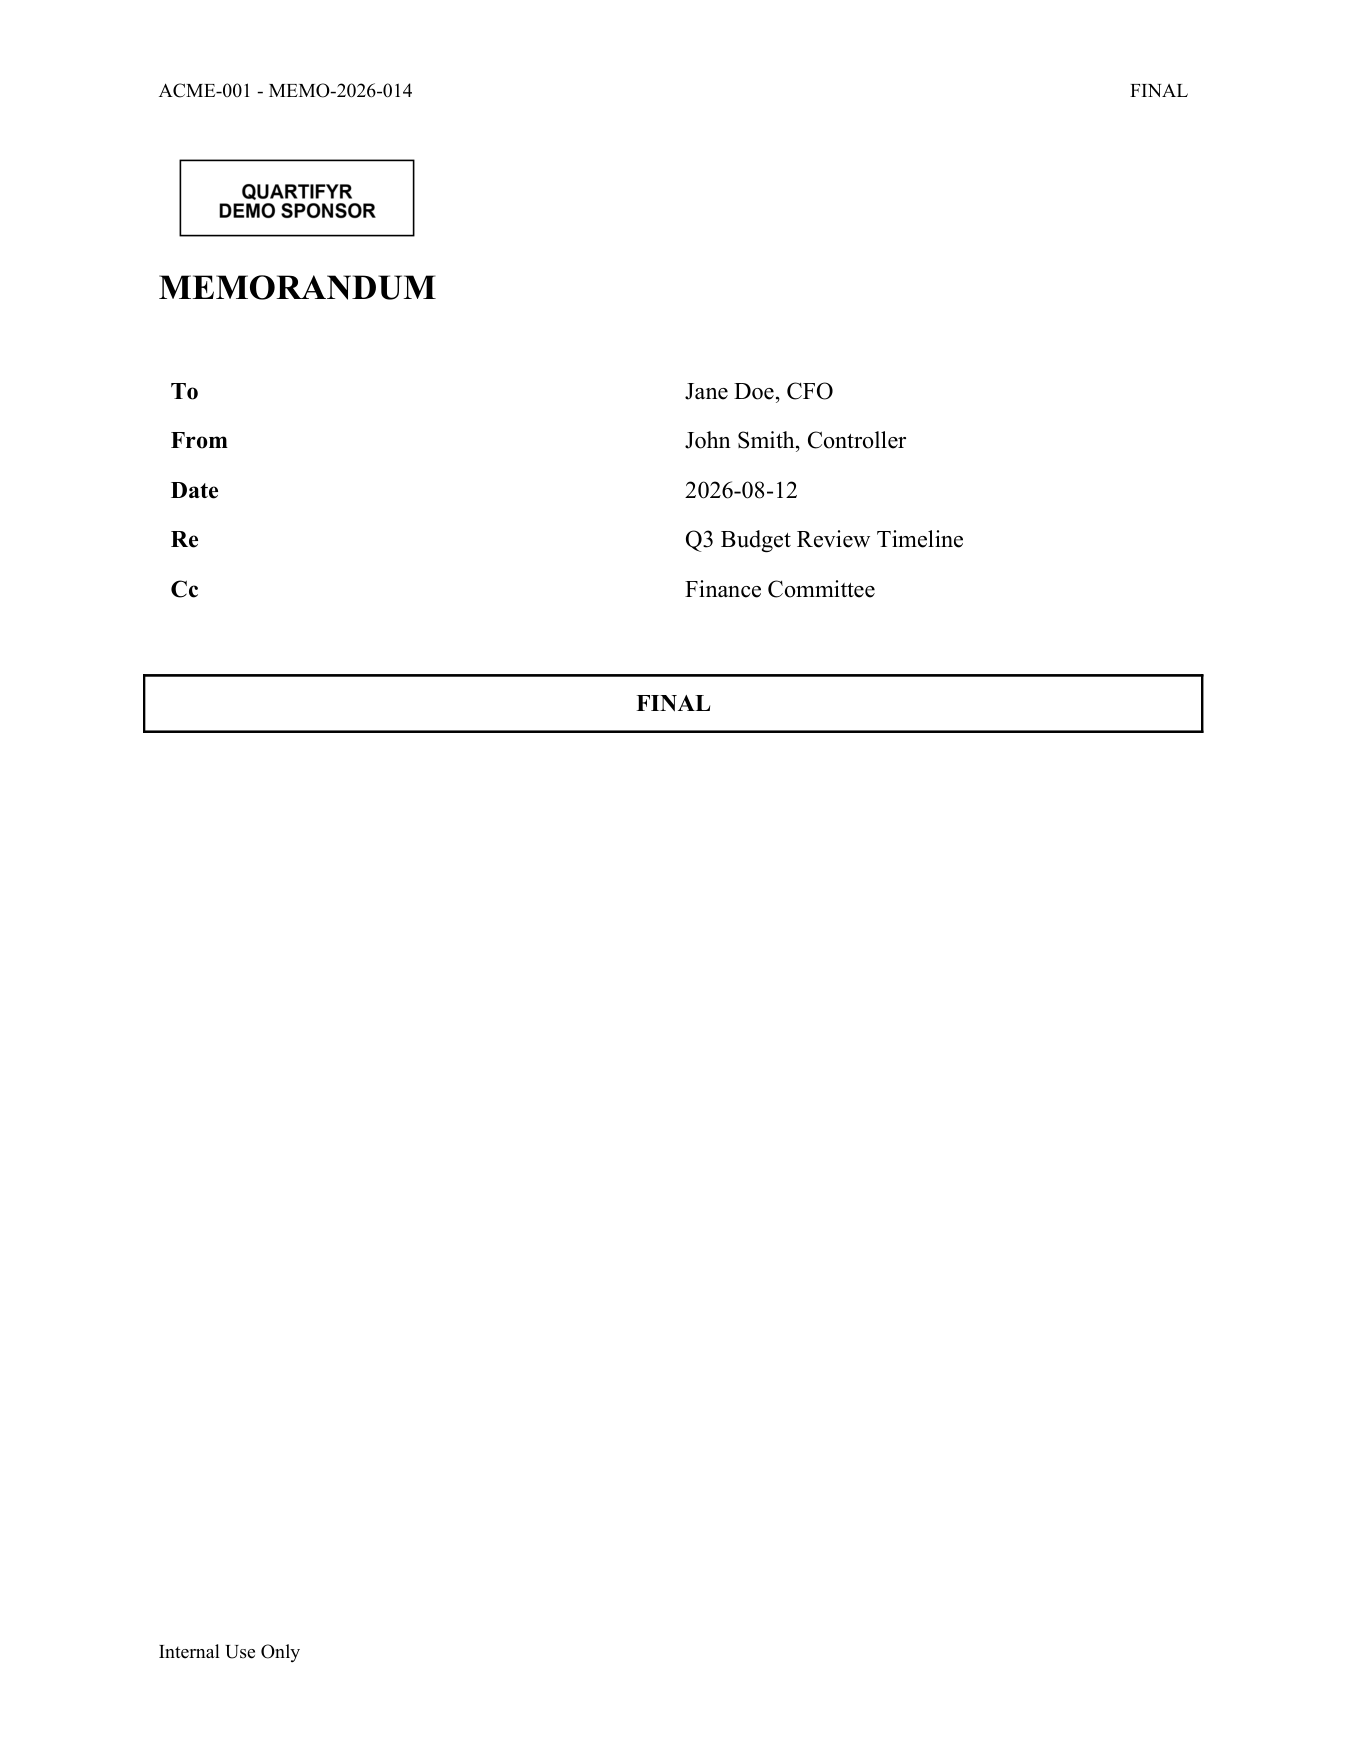
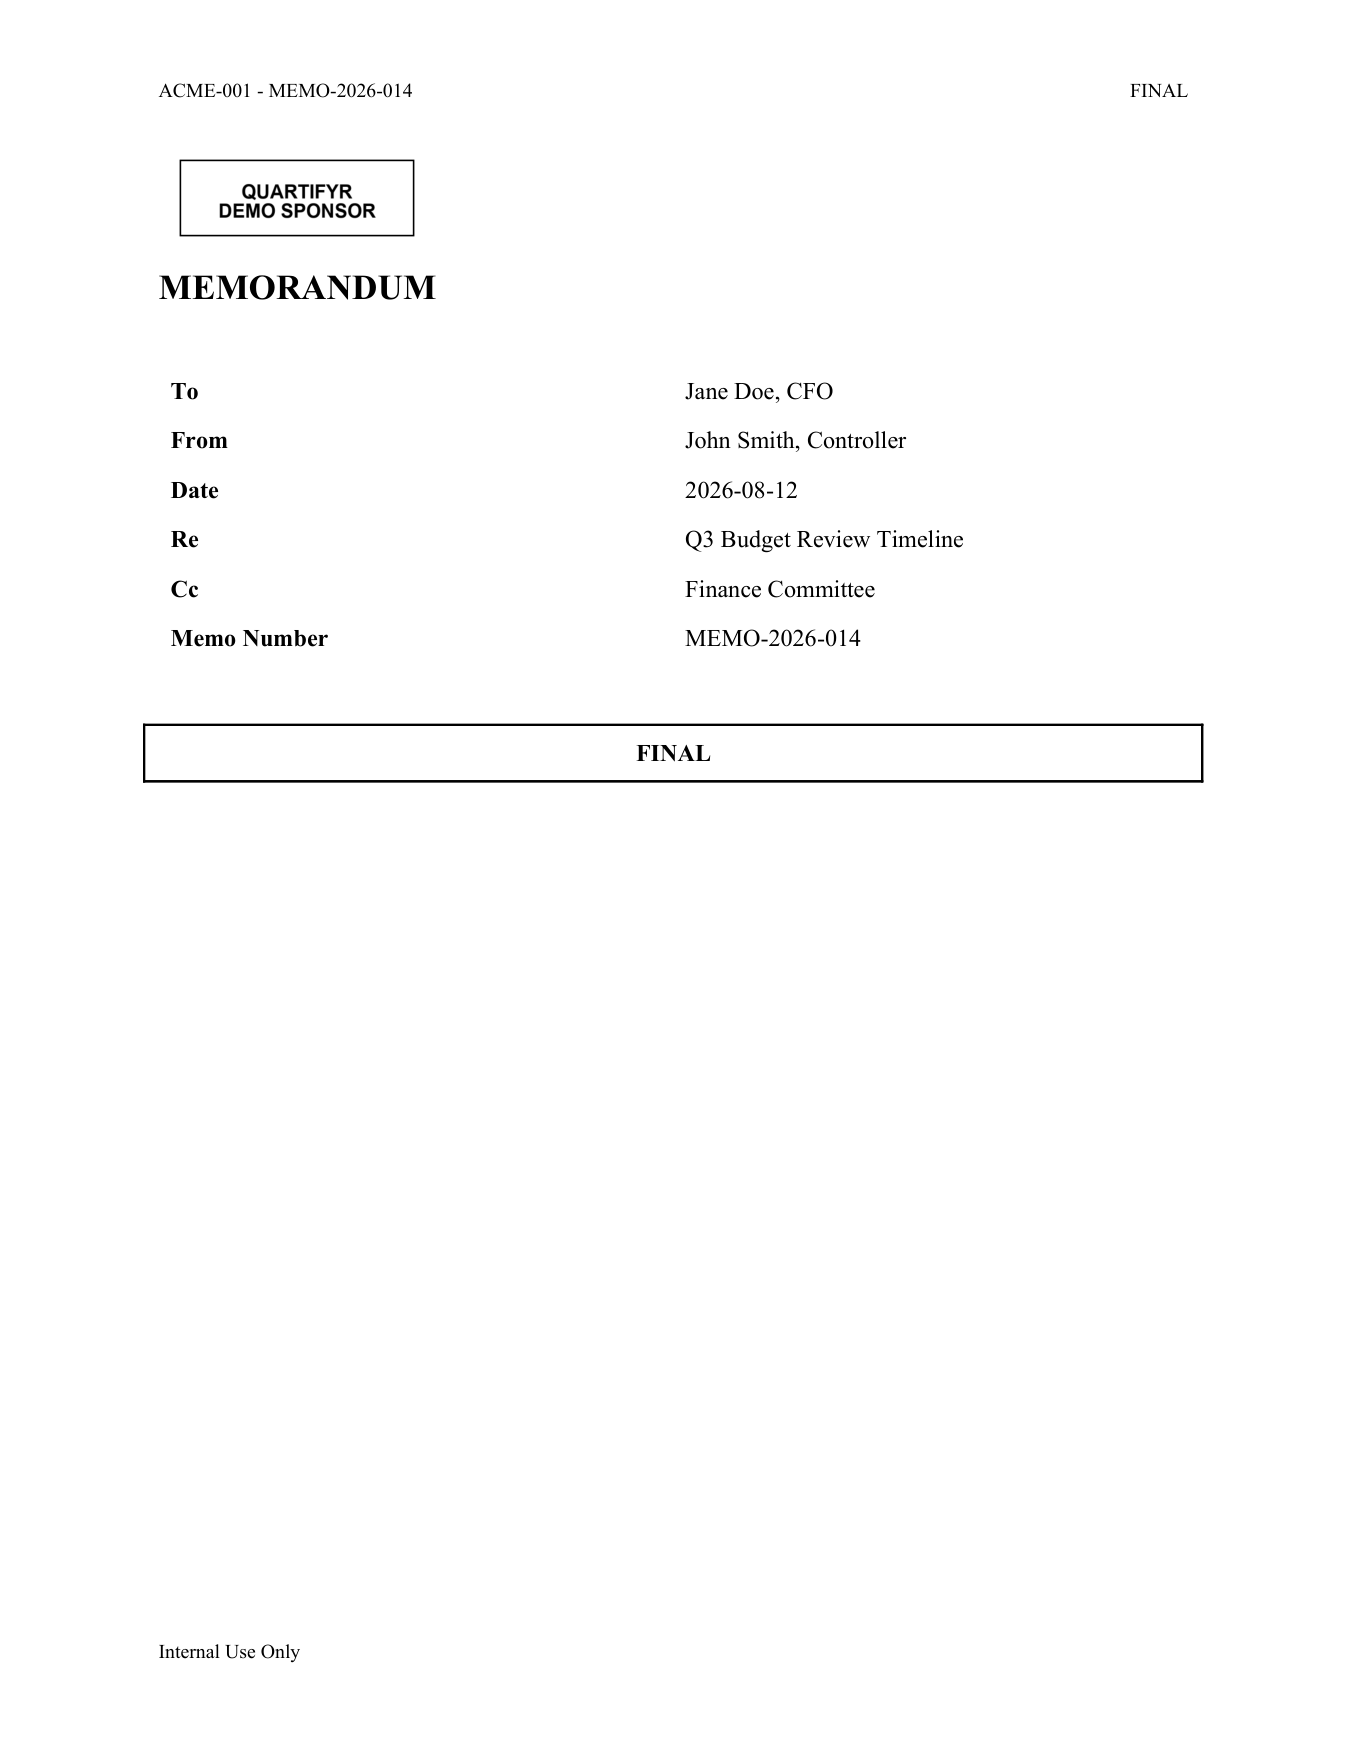
Let memo cover use title-page-extra; clarify anchor/alias doc wording
memo_cover.lua previously only rendered the fixed To/From/Date/Re/Cc
grid, so a value like memo_number (already anchored/aliased into
header-format) had no way to also show up on the cover itself. It now
reads the same title-page-extra: key title_page.lua uses and appends
those rows to the same field table -- one shared, open-ended key
regardless of cover type, rather than a separate memo-specific one.

Wired memo_number into examples/memo-example/report.qmd via the same
anchor (&memo_number) / alias (*memo_number) pattern demo-report already
uses for report_number, added a matching smoke_test.py assertion, and
regenerated docs/assets/img/memo-example-cover.png. Both examples'
smoke tests and the quarto-only path pass with no regressions.

Also tightened quarto-extension.md's anchor/alias wording: the anchor
must be declared before any alias referencing it (confirmed via PyYAML's
"found undefined alias" error when reversed) -- "used elsewhere" alone
left that ordering requirement ambiguous.

Changed region(s): [[0.0935, 0.3718, 0.9042, 0.4647], [0.1247, 0.3408, 0.2494, 0.3718], [0.5301, 0.3408, 0.6236, 0.3718]]

diff --git a/examples/memo-example/smoke_test.py b/examples/memo-example/smoke_test.py
@@ -147,13 +147,18 @@ def main() -> int:
         return [[cell.text for cell in row.cells] for row in table.rows]
 
     all_rows = [row for table in document.tables for row in _table_row_texts(table)]
-    checks.append(("exactly one table present (the To/From/Date/Re/Cc grid)", len(document.tables) == 1))
-    checks.append(("To/From/Date/Re/Cc grid has the expected labels and values", all_rows == [
+    # Still exactly one table: title-page-extra's "Memo Number" row (see
+    # report.qmd's comment -- memo_number reused via YAML anchor/alias,
+    # not retyped) is appended into the same To/From/Date/Re/Cc grid by
+    # memo_cover.lua, not a second table.
+    checks.append(("exactly one table present (the To/From/Date/Re/Cc + title-page-extra grid)", len(document.tables) == 1))
+    checks.append(("grid has the expected labels and values, including the title-page-extra row", all_rows == [
         ["To", "Jane Doe, CFO"],
         ["From", "John Smith, Controller"],
         ["Date", "2026-08-12"],
         ["Re", "Q3 Budget Review Timeline"],
         ["Cc", "Finance Committee"],
+        ["Memo Number", "MEMO-2026-014"],
     ]))
 
     # The budget-timeline figure (scripts/01_analysis.R -> OUTPUTS/figures/

diff --git a/docs/quarto-extension.md b/docs/quarto-extension.md
@@ -79,11 +79,17 @@ order (confirmed by testing), so a list is what keeps row order reliable
 across renders.
 
 A value that's also used elsewhere (like `report_number` above, reused
-by `header-format:`) doesn't need to be written out twice: anchor it
-once (`&report_number`) and alias it (`*report_number`) into the
-`title-page-extra` row, plain YAML resolved before Quarto/pandoc/Lua see
-the data. This is *not* the `{{< meta ... >}}` shortcode — that only
-substitutes inside document body content, not frontmatter itself.
+by `header-format:`) doesn't need to be written out twice: declare it
+once with a YAML anchor (`&report_number`) and reuse it with an alias
+(`*report_number`) in the `title-page-extra` row below — plain YAML,
+resolved before Quarto/pandoc/Lua ever see the data. The anchor must be
+declared *before* any alias that references it — a YAML alias can only
+resolve to an anchor already seen earlier in the same document (confirmed:
+PyYAML raises `found undefined alias` if the order is reversed), so
+`report_number: &report_number ...` has to come before `value:
+*report_number` below it, not after. This is a plain YAML mechanism, not
+the `{{< meta ... >}}` shortcode — that one only substitutes inside
+document body content, never frontmatter itself.
 
 ## Memo cover page
 
@@ -98,10 +104,19 @@ memo:
   date: "2026-08-12"
   re: "Q3 Budget Review"
   cc: "Finance Committee"    # optional
+memo_number: &memo_number "MEMO-2026-014"   # feeds header-format below
+header-format: "{project} - {memo_number}"   # optional
+title-page-extra:
+  - label: "Memo Number"
+    value: *memo_number            # reuses memo_number above, not retyped
 ```
 
 Activates only when `memo:` is present — never set `title:` on a memo
-project. See [`examples/memo-example/`](https://github.com/jprybylski/quartifyr/tree/main/examples/memo-example)
+project. `title-page-extra:` is the same field the title page reads (see
+above) — the memo cover appends its rows after the fixed To/From/Date/
+Re/Cc grid, so a value like a memo number can show up on the cover
+without a second, cover-specific frontmatter key. See
+[`examples/memo-example/`](https://github.com/jprybylski/quartifyr/tree/main/examples/memo-example)
 for a complete, minimal reference project built this way, and its
 rendered output on the [Examples](examples.html) page.
 
